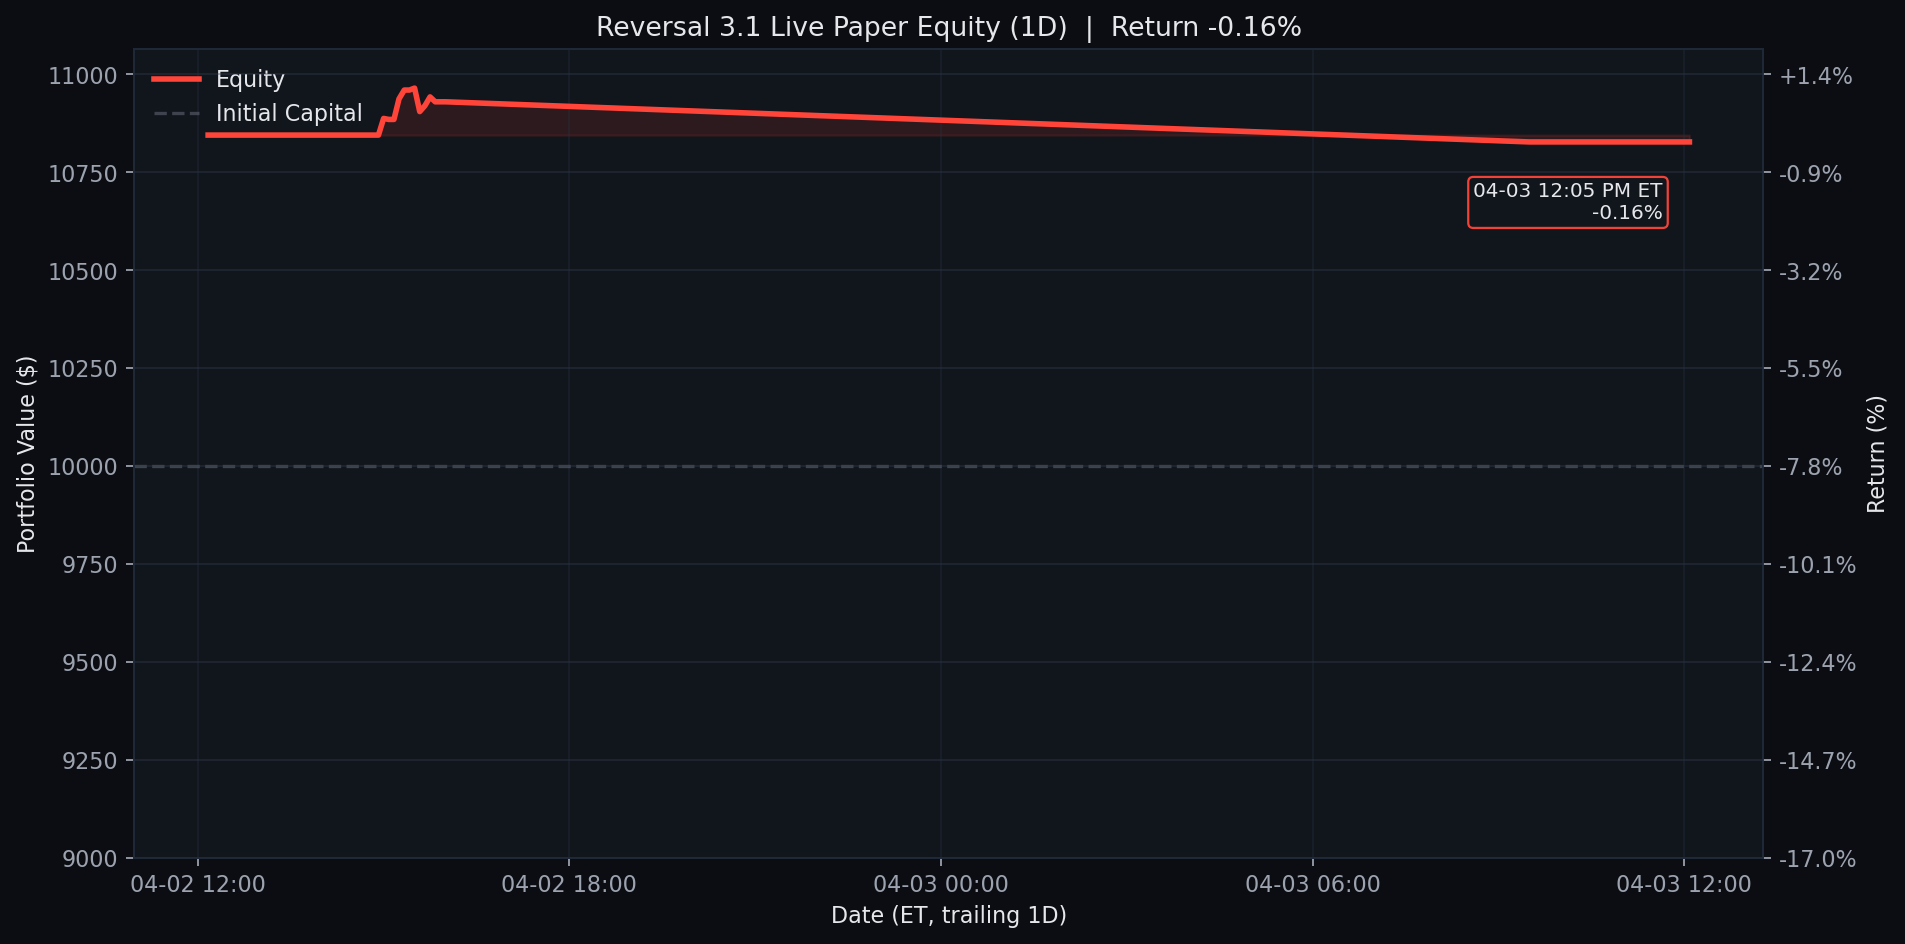
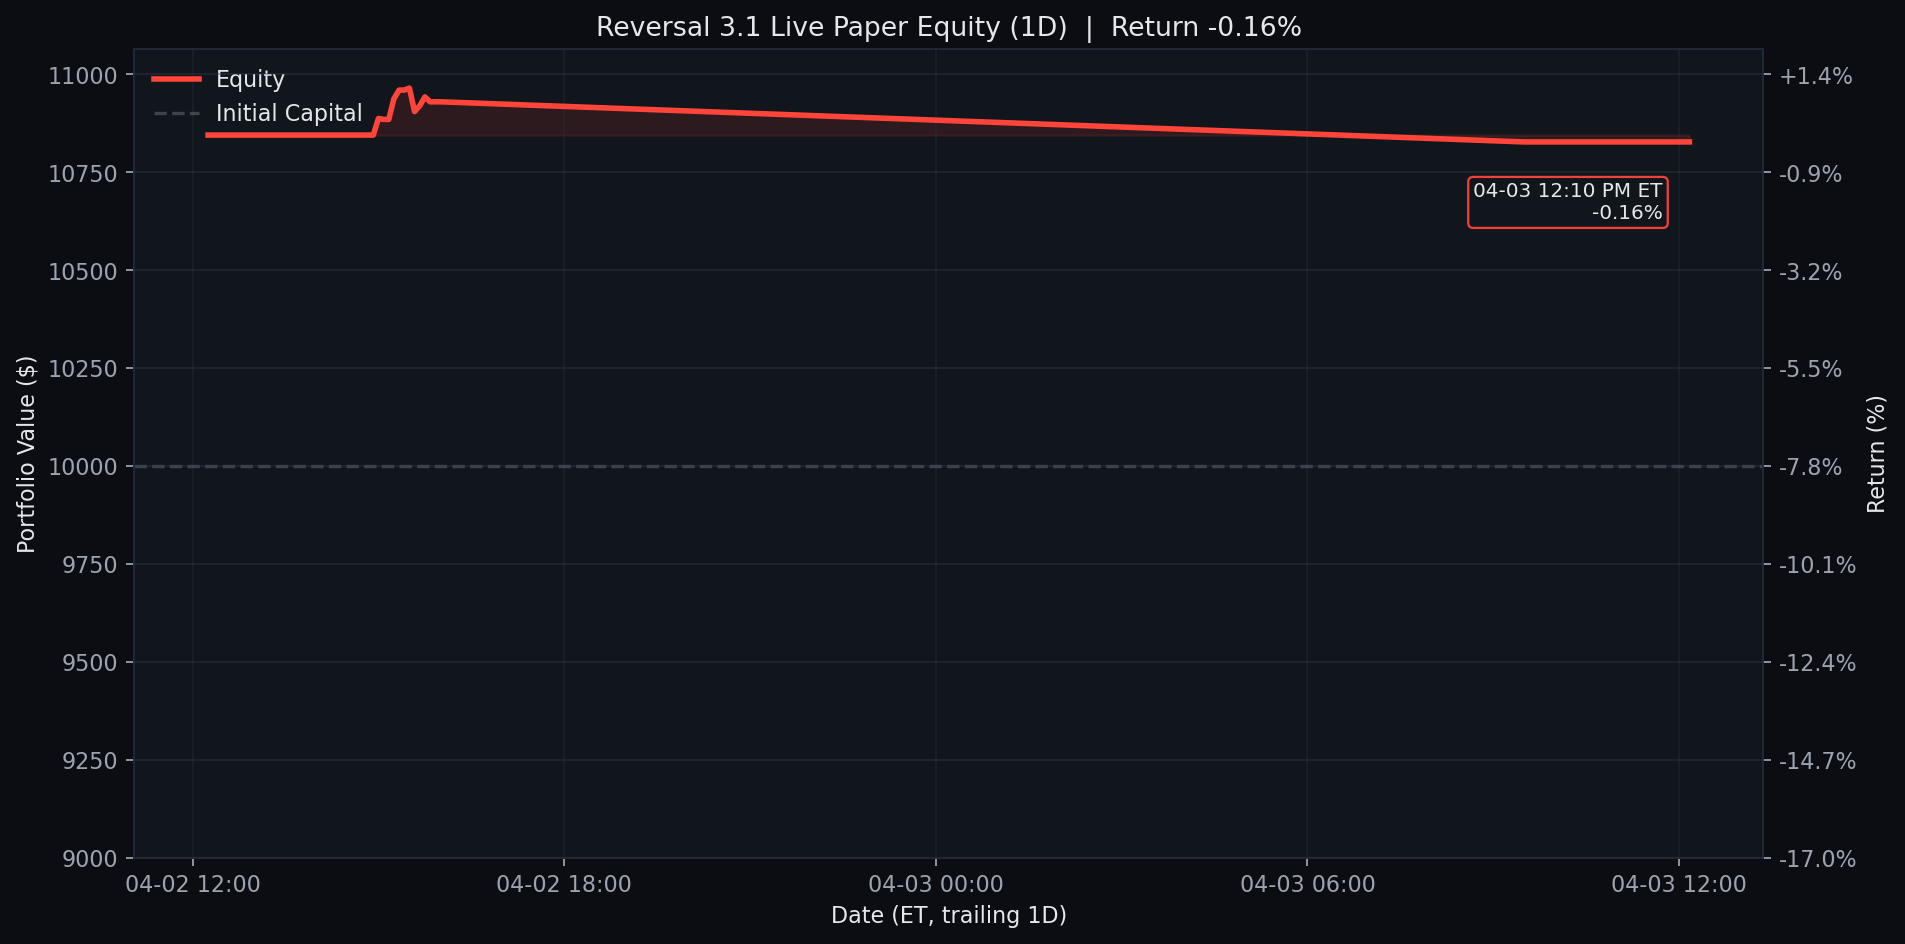
Update Reversal 3.1 live paper test 2026-04-03 12:10 ET

diff --git a/results/reversal_3_1_live/README.md b/results/reversal_3_1_live/README.md
@@ -1,6 +1,6 @@
 # Reversal 3.1 Live Paper Test
 
-Last updated (ET): `2026-04-03 12:05:05 EDT`
+Last updated (ET): `2026-04-03 12:10:05 EDT`
 Last processed slot: `manage_1200`
 
 ## Active Configuration
@@ -58,6 +58,7 @@ ticker  success_rate_%  matched_signals  current_drop_%  target_rebound_$  targe
 
 ```text
                     timestamp_et        slot   event_type                          detail
+2026-04-03T12:10:05.930387-04:00 manage_1200 slot_skipped {"reason": "already_processed"}
 2026-04-03T12:05:05.892529-04:00 manage_1200 slot_skipped {"reason": "already_processed"}
 2026-04-03T12:00:01.905238-04:00 manage_1200 slot_skipped {"reason": "already_processed"}
 2026-04-03T11:55:05.888604-04:00 manage_1200 slot_skipped {"reason": "already_processed"}
@@ -67,7 +68,6 @@ ticker  success_rate_%  matched_signals  current_drop_%  target_rebound_$  targe
 2026-04-03T11:25:00.980983-04:00 manage_1130 slot_skipped {"reason": "already_processed"}
 2026-04-03T11:10:05.895954-04:00 manage_1100 slot_skipped {"reason": "already_processed"}
 2026-04-03T11:05:04.971549-04:00 manage_1100 slot_skipped {"reason": "already_processed"}
-2026-04-03T11:00:01.980341-04:00 manage_1100 slot_skipped {"reason": "already_processed"}
 ```
 
 ## Equity Curves

diff --git a/README.md b/README.md
@@ -3,7 +3,7 @@
 <!-- reversal-3.1-live:start -->
 ## Reversal 3.1 Live Paper Test
 
-- Last updated (ET): `2026-04-03 12:05:05 EDT`
+- Last updated (ET): `2026-04-03 12:10:05 EDT`
 - Equity: `$10,827.50` | Realized: `$845.00` | Unrealized: `$-17.50` | Open positions: `1`
 - Today closed trades: `0`
 - Current slot: `manage_1200`
